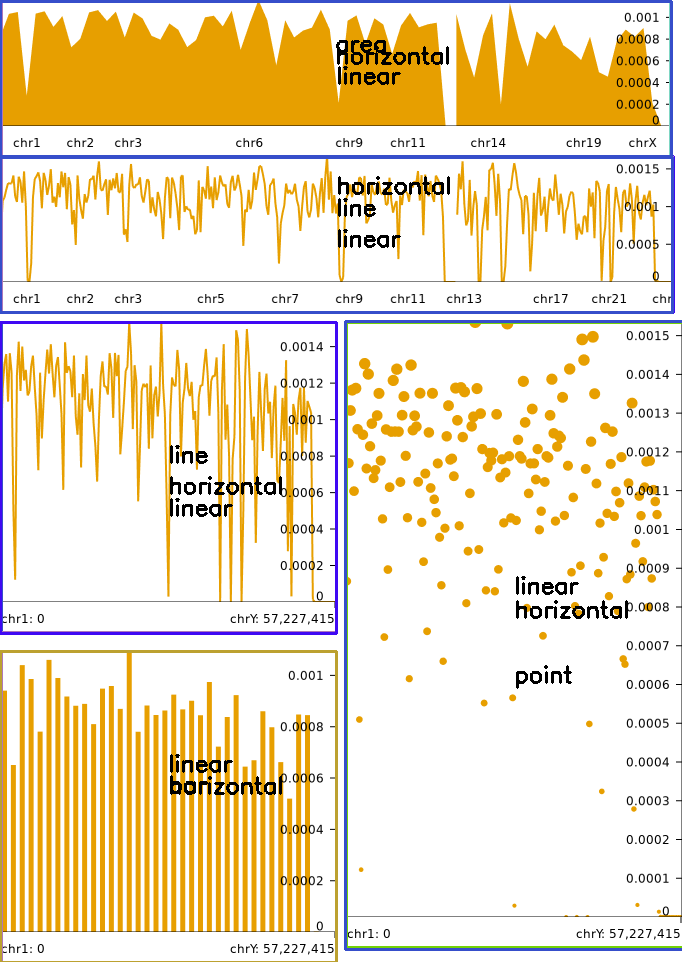
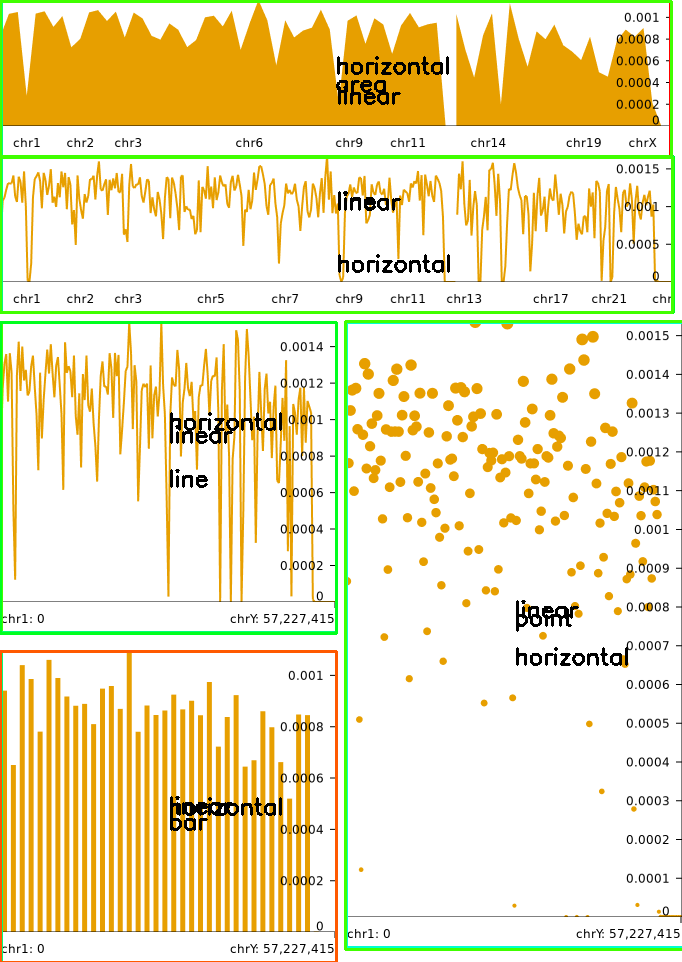
integrate orientation when reconstructing spec

diff --git a/flask/main.py b/flask/main.py
@@ -130,8 +130,15 @@ def viz_analysis():
     shape_info_parsed = select_best_from_identical_boxes([parse_list(my_list) for my_list in shape_info])
     prop_info_parsed = merge_identical_boxes([parse_list(my_list) for my_list in prop_info])
 
-
-    tracks_info = merge_parsed_list(shape_info_parsed,prop_info_parsed)
+    def add_orientation(info):
+        new_obj = info.copy()
+        orientation_set = {"horizontal","vertical"}
+        new_obj['orientation'] = [el for el in info['mark'] if el in orientation_set]
+        new_obj['mark'] = [el for el in info['mark'] if el not in orientation_set]
+        return new_obj
+    raw_tracks_info = merge_parsed_list(shape_info_parsed,prop_info_parsed)
+    tracks_info = [add_orientation(info) for info in raw_tracks_info]
+    # import ipdb; ipdb.set_trace()
     print(tracks_info)
 
     # '''

diff --git a/flask/yolov7_demo.py b/flask/yolov7_demo.py
@@ -68,7 +68,7 @@ def letterbox(im, new_shape=(640, 640), color=(0, 0, 0), auto=True, scaleup=True
     im = cv2.copyMakeBorder(im, top, bottom, left, right, cv2.BORDER_CONSTANT, value=color)  # add border
     return im, r, (dw, dh)
 
-classes = ['area','bar','brush','circular','heatmap','line','linear','point','rect','rule','text','triangleBottom','triangleLeft','triangleRight','withinLink']
+classes = ["area", "bar", "brush", "circular", "heatmap", "horizontal", "line", "linear", "point", "rect", "rule", "text", "triangleBottom", "triangleLeft", "triangleRight", "vertical", "withinLink"] # class names
 # colors = {name:[random.randint(0, 255) for _ in range(3)] for i,name in enumerate(names)} # names are classes
 colors = {name : PIL.ImageColor.getrgb(f'hsv({int(360 * i / len(classes))},100%,100%)') for i, name in enumerate(classes)}
 

diff --git a/flask/yolov7_detect.py b/flask/yolov7_detect.py
@@ -8,6 +8,8 @@ import onnxruntime as ort
 from PIL import Image
 from pathlib import Path
 from collections import OrderedDict,namedtuple
+from PIL import Image, ImageDraw, ImageColor
+import PIL.ImageColor
 # import cv2
 cuda = False
 w = "best.onnx"
